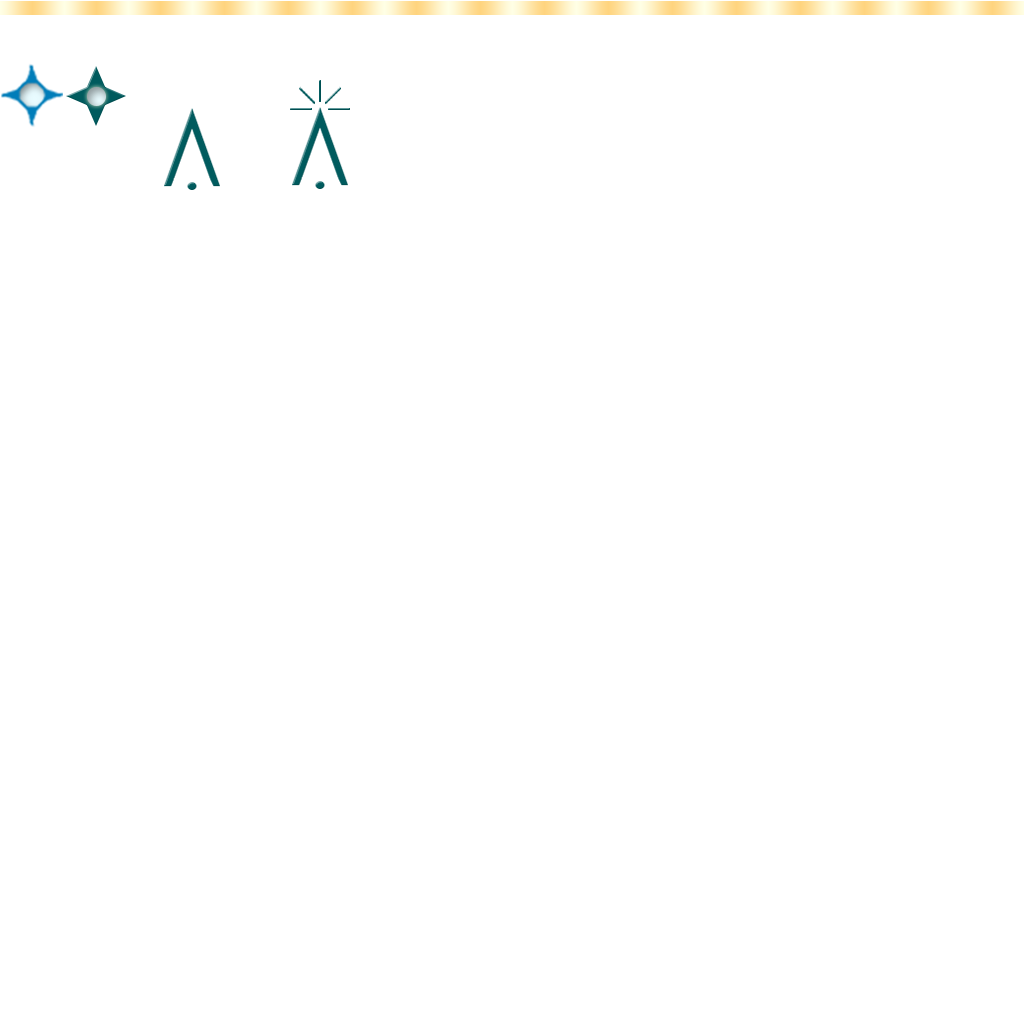
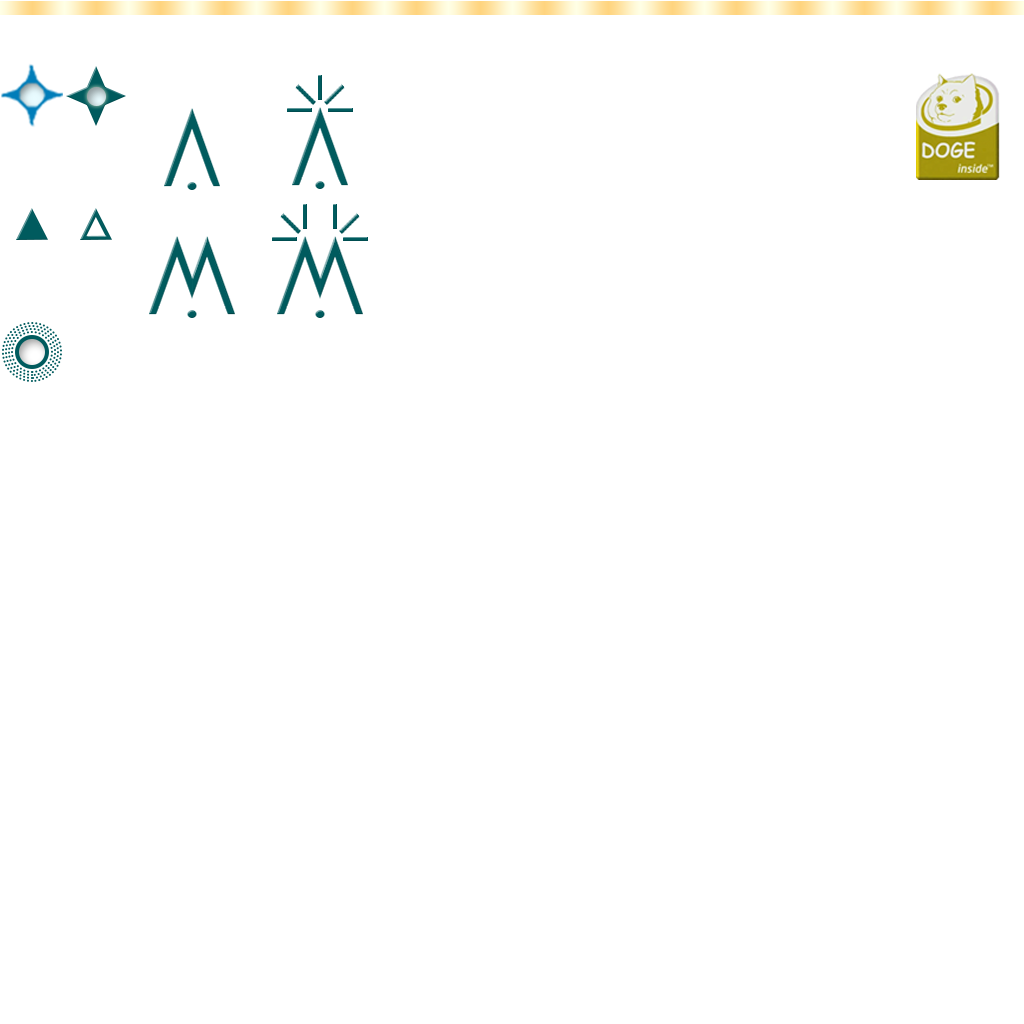
More symbols

diff --git a/ATX.cpp b/ATX.cpp
@@ -363,12 +363,14 @@ void ATX::render()
 	int i;
 	for (i = 0; i != 5; i++)
 	{
-		al_draw_tinted_scaled_rotated_bitmap_region(bar, 64, 64, 64, 64, al_map_rgb_f(1,1,1), 32, 32, temp[i].location.x, temp[i].location.y, 1.0f, 1.0f, 0, 0);
+		al_draw_tinted_scaled_rotated_bitmap_region(bar, 0, 320, 64, 64, al_map_rgb_f(1,1,1), 32, 32, temp[i].location.x, temp[i].location.y, 1.0f, 1.0f, 0, 0);
 		//al_draw_circle(temp[i].location.x, temp[i].location.y, 6, al_map_rgb_f(1,1,1), 12);
 	}
 
 	al_draw_tinted_scaled_rotated_bitmap_region(bar, 128, 64, 128, 128, al_map_rgb_f(1,1,1), 64, 128, 400, 200, 1.0f, 1.0f, 0, 0);
 	al_draw_tinted_scaled_rotated_bitmap_region(bar, 256, 64, 128, 128, al_map_rgb_f(1,1,1), 64, 128, 500, 200, 1.0f, 1.0f, 0, 0);
+	al_draw_tinted_scaled_rotated_bitmap_region(bar, 128, 192, 128, 128, al_map_rgb_f(1,1,1), 64, 128, 400, 328, 1.0f, 1.0f, 0, 0);
+	al_draw_tinted_scaled_rotated_bitmap_region(bar, 256, 192, 128, 128, al_map_rgb_f(1,1,1), 64, 128, 500, 328, 1.0f, 1.0f, 0, 0);
 
 	al_hold_bitmap_drawing(false);
 
